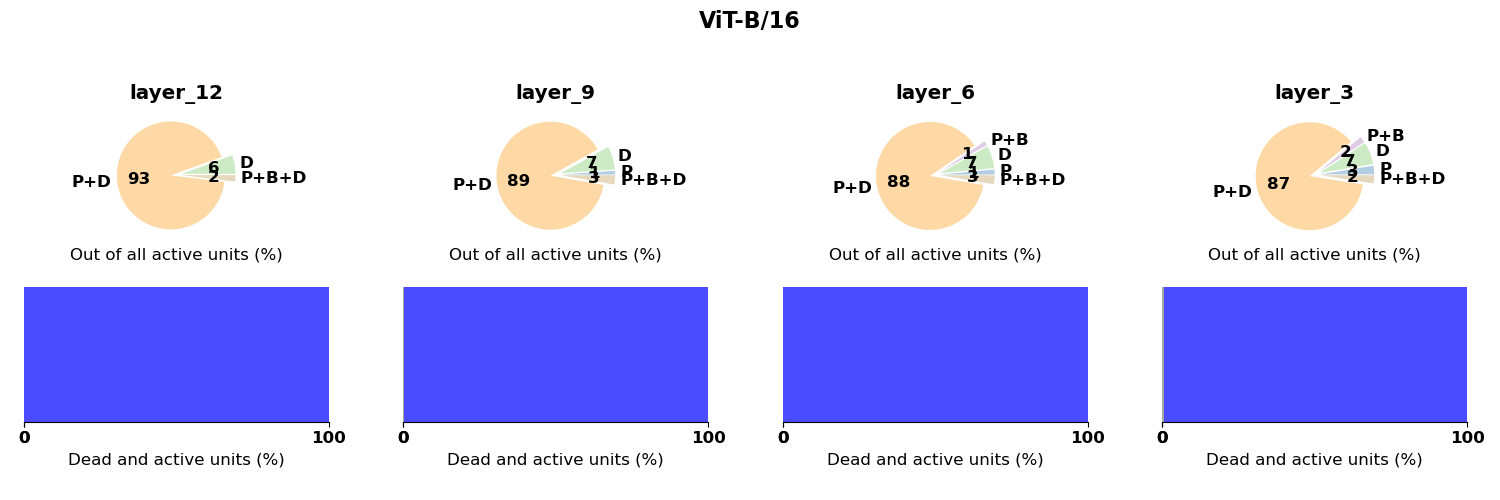
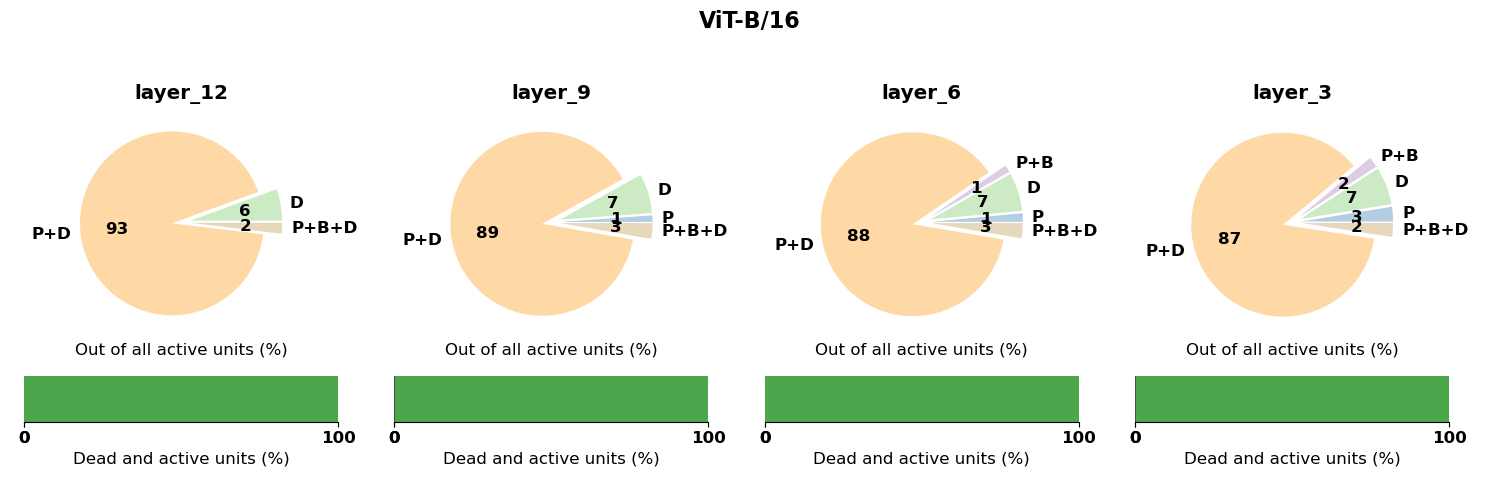
improve figs

diff --git a/figures_paper.py b/figures_paper.py
@@ -1612,12 +1612,11 @@ def unit_chart_visualization_piechart():
         # each column is a layer
         # row1 is all types piechart
         # row2 is dead v active units barplot
-        fig, ax = plt.subplots(
-                nrows=2,
-                ncols=len(output_layers),
-                figsize=(15, 5),
-            )
-        
+        fig = plt.figure(figsize=(15, 5))
+        gs = fig.add_gridspec(
+            nrows=2, ncols=len(output_layers), height_ratios=[5, 1]
+        )
+
         for col_index, output_layer in enumerate(output_layers):
             config_version = f'env28_r24_2d_{model_name}_{output_layer}'
             print(f'Plotting {config_version}')
@@ -1771,7 +1770,8 @@ def unit_chart_visualization_piechart():
                 elif label == 'P+B+D':
                     colors.append(plt.cm.Pastel1.colors[6])
 
-            ax[0, col_index].pie(
+            ax = fig.add_subplot(gs[0, col_index])
+            ax.pie(
                 n_cells,
                 autopct=lambda p: '{:.0f}'.format(round(p)) if p >= 1 else '',
                 labels=labels,
@@ -1779,8 +1779,8 @@ def unit_chart_visualization_piechart():
                 explode=[0.1]*len(labels),
             )
 
-            ax[0, col_index].set_xlabel('Out of all active units (%)')
-            ax[0, col_index].set_title(output_layer, fontweight='bold')
+            ax.set_xlabel('Out of all active units (%)')
+            ax.set_title(output_layer, fontweight='bold')
             plt.tight_layout(rect=[0, 0.03, 1, 0.95])
             if model_name == 'vgg16': model_name_plot = 'VGG-16'
             elif model_name == 'resnet50': model_name_plot = 'ResNet-50'
@@ -1790,29 +1790,30 @@ def unit_chart_visualization_piechart():
             # second subplot: show proportion of dead and active units
             # x-axis is 0 to 1, showing how much is dead and how much is active
             # y-axis can be arbitrary height, we set to 2.
+            ax = fig.add_subplot(gs[1, col_index])
             box_height = 2
             width1 = n_dead_units/unit_chart_info.shape[0]*100
             width2 = n_active_units/unit_chart_info.shape[0]*100
 
             # Set the x-axis limit to 0-100%
-            ax[1, col_index].set_xlim(0, 100)
-            ax[1, col_index].set_yticks([])
+            ax.set_xlim(0, 100)
+            ax.set_yticks([])
             
             # Create rectangles for the partitions
-            rect1 = patches.Rectangle((0, 0), width1, box_height, linewidth=1, edgecolor='none', facecolor='grey', alpha=0.7)
-            rect2 = patches.Rectangle((width1, 0), width2, box_height, linewidth=1, edgecolor='none', facecolor='blue', alpha=0.7)
+            rect1 = patches.Rectangle((0, 0), width1, box_height, linewidth=1, edgecolor='none', facecolor='black', alpha=0.7)
+            rect2 = patches.Rectangle((width1, 0), width2, box_height, linewidth=1, edgecolor='none', facecolor='green', alpha=0.7)
 
-            ax[1, col_index].add_patch(rect1)
-            ax[1, col_index].add_patch(rect2)
-            ax[1, col_index].set_xlabel('Dead and active units (%)')
+            ax.add_patch(rect1)
+            ax.add_patch(rect2)
+            ax.set_xlabel('Dead and active units (%)')
 
             # set x-axis ticks only (0, width1, 100), round to 0 decimal places
-            ax[1, col_index].set_xticks([0, int(width1), 100], minor=False)
+            ax.set_xticks([0, int(width1), 100], minor=False)
 
             # remove left, top and right
-            ax[1, col_index].spines['left'].set_visible(False)
-            ax[1, col_index].spines['top'].set_visible(False)
-            ax[1, col_index].spines['right'].set_visible(False)
+            ax.spines['left'].set_visible(False)
+            ax.spines['top'].set_visible(False)
+            ax.spines['right'].set_visible(False)
 
             plt.suptitle(f'{model_name_plot}', fontsize=16, fontweight='bold')
             plt.savefig(f'figs/paper/unit_chart_overlaps_{model_name}.png')
